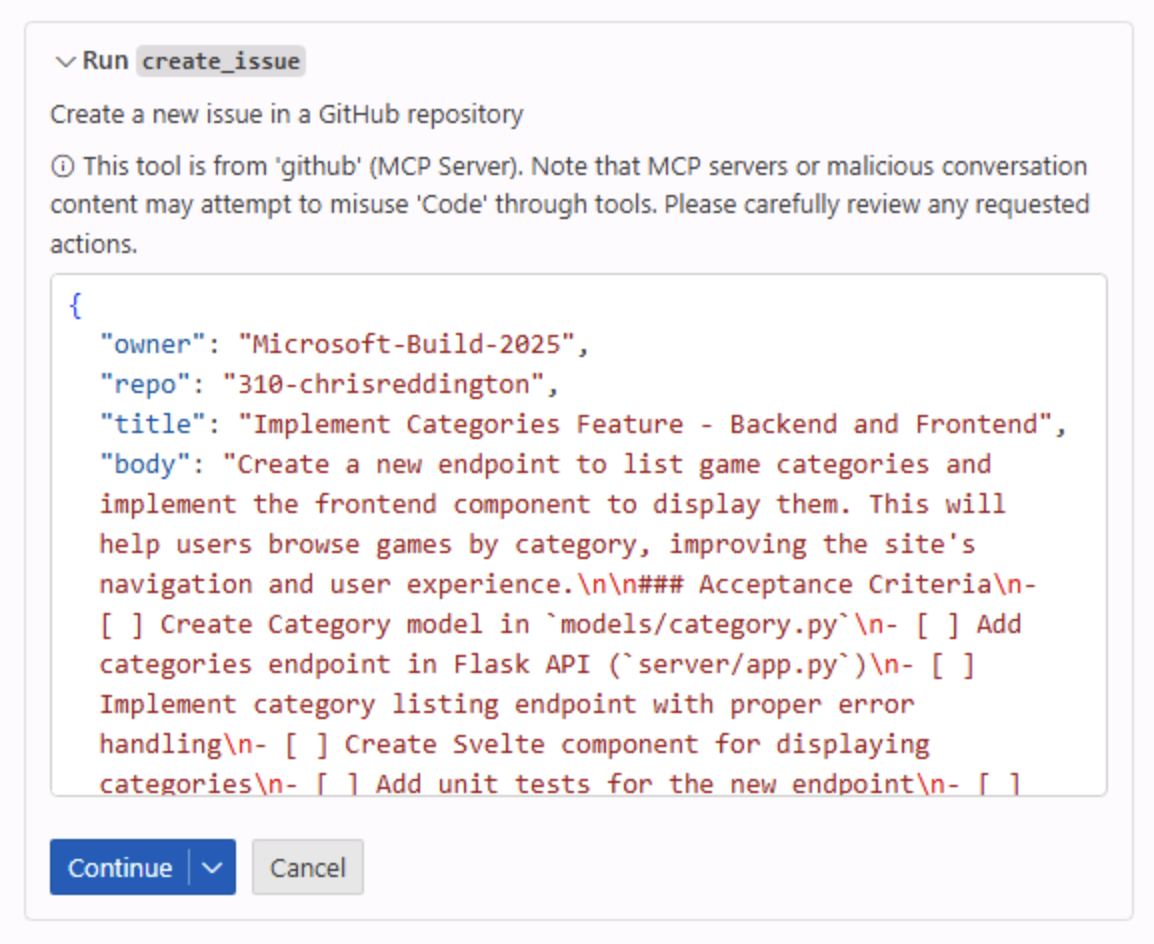
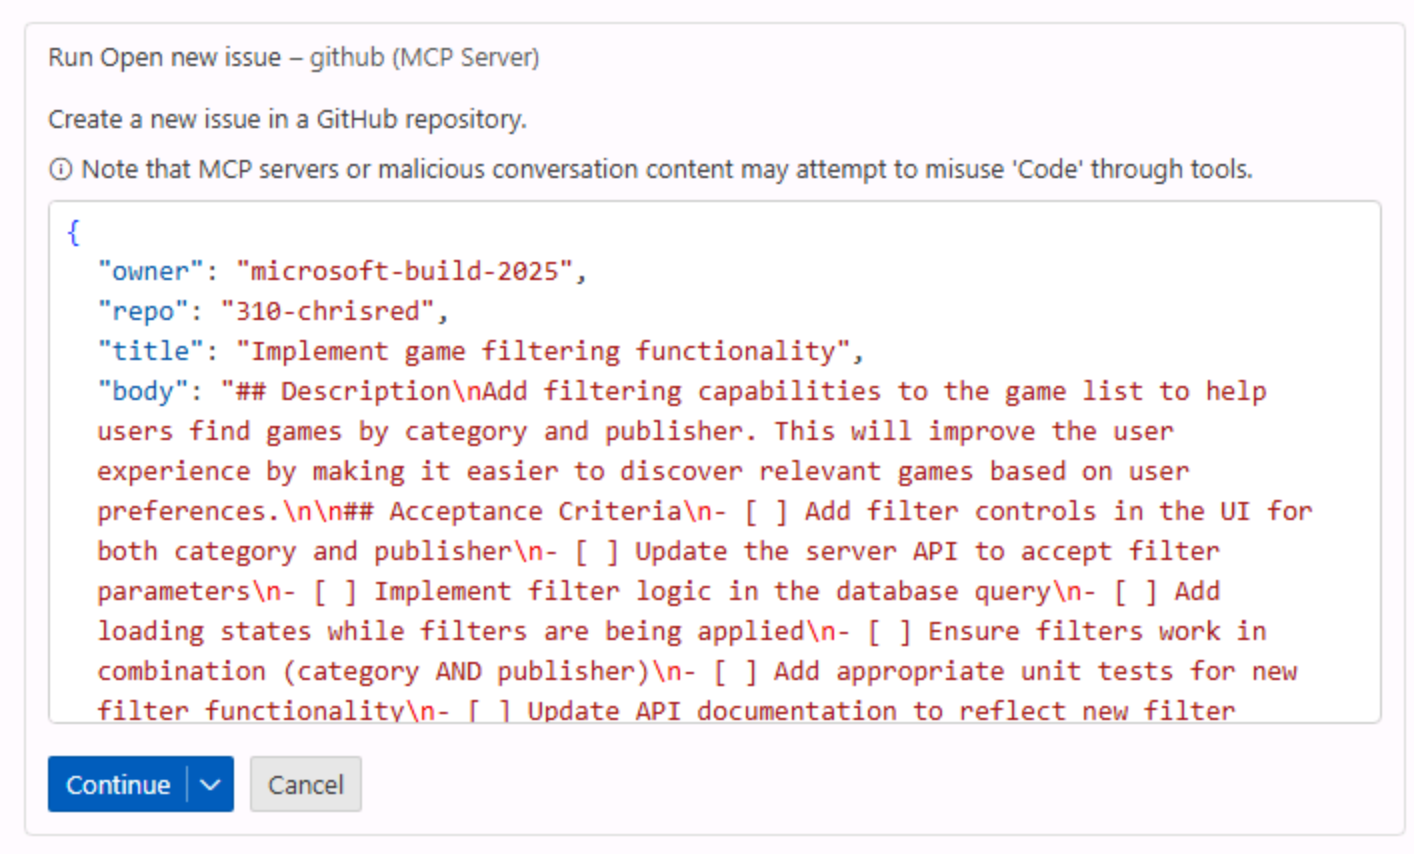
Exercuse 1 instruction tweaks based on UI updates

Changed region(s): [[0.0312, 0.0304, 0.9983, 0.8525], [0.0312, 0.8829, 0.312, 0.9742]]

diff --git a/docs/1-mcp.md b/docs/1-mcp.md
@@ -176,7 +176,7 @@ Now that you have set up the GitHub MCP server, you can use Copilot Agent mode t
 > [!IMPORTANT]
 > Remember, AI can make mistakes, so make sure to review the issues before confirming.
 
-5. Click the arrow next to **Run create_issue** to see the details of the issue that will be created.
+5. Select **see more** in **Run open new issue** box to see the details of the issue that will be created.
 6. Ensure the details in the **owner** and **repo**, **title** and **body** of the issue look correct. You can make any desired edits by double clicking the body and updating the content with the correct information.
 7. After reviewing the generated content, select **Continue** to create the issue.
 
